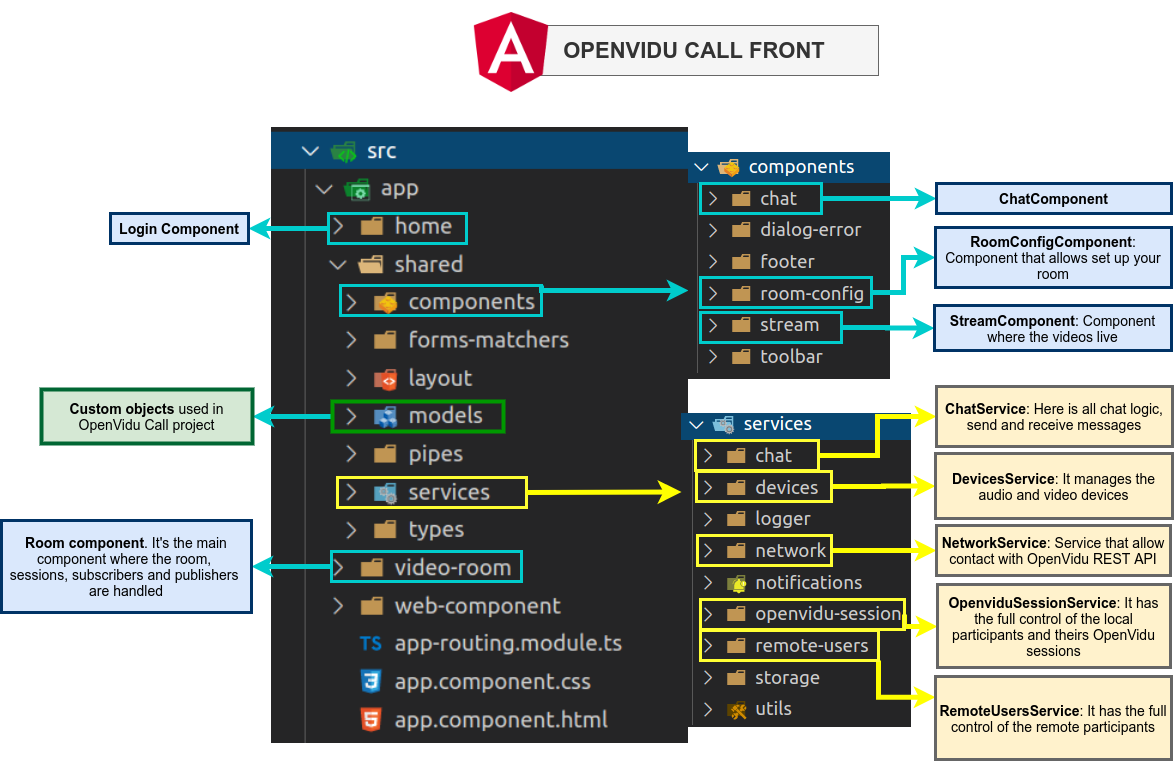
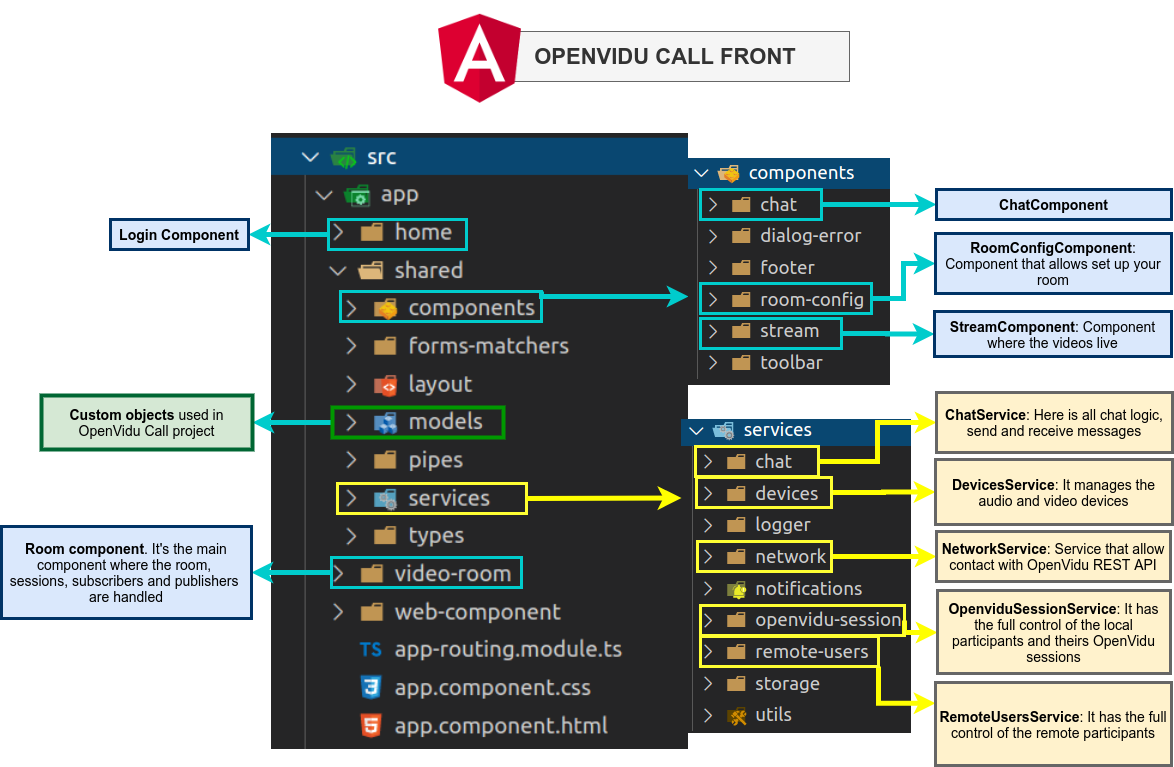
openvidu-call: Added code structure

diff --git a/docs/demos/openvidu-call.md b/docs/demos/openvidu-call.md
@@ -12,6 +12,17 @@ OpenVidu Call frontend is built with <strong>Angular 9</strong> and its backend 
 
 ---
 
+## Demo code structure
+
+<p align="center">
+  <img class="img-responsive" src="img/demos/openvidu-call-front-code.png">
+</p>
+<p align="center">
+  <img class="img-responsive" src="img/demos/openvidu-call-back-code.png">
+</p>
+
+
+
 ## Get and execute the code
 
 1)  Clone the repo:
